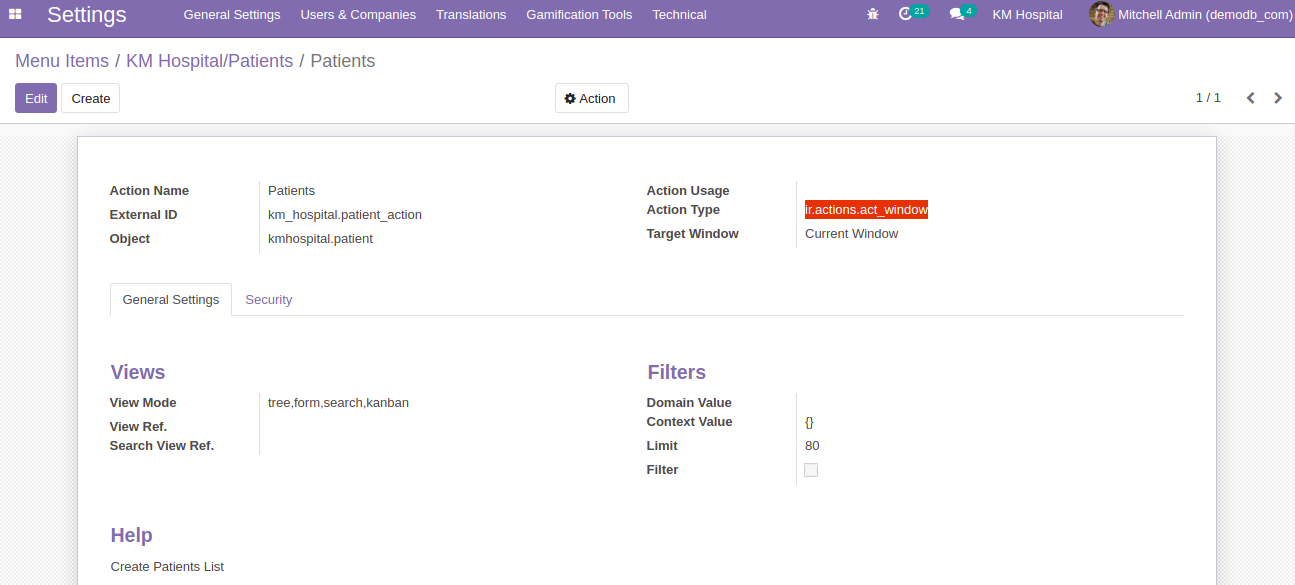
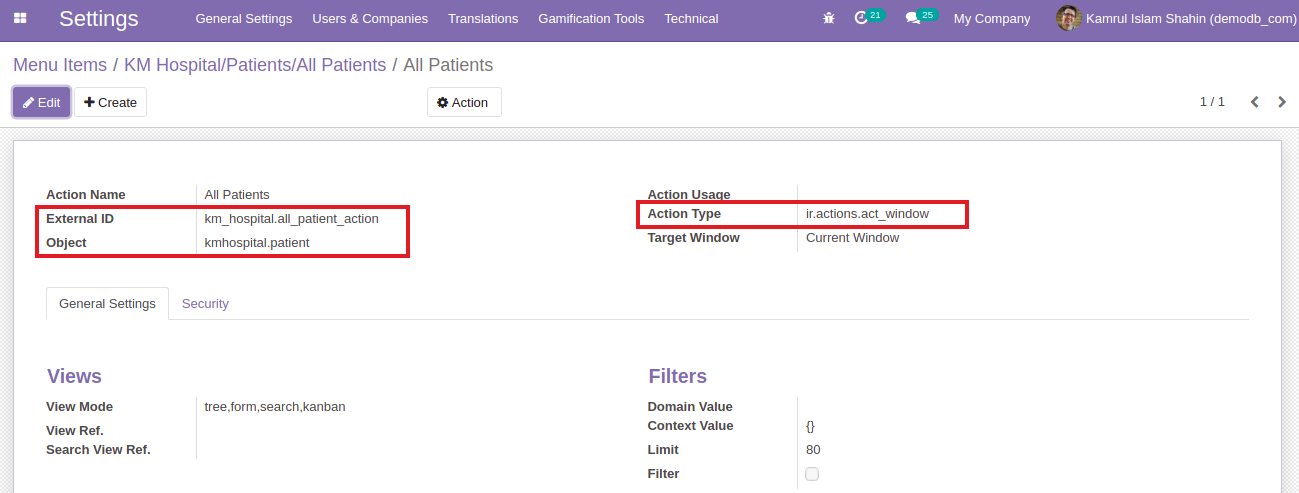
update patient actions and views

diff --git a/pages/4_actionsViews.md b/pages/4_actionsViews.md
@@ -19,18 +19,31 @@
 
   All the code will be placed inside the `odoo` tag.
 
-- Add below code to create root menu and a menu:
+- Add below code to create root menu, a menu and a sub-menu. In the root menu we can add `web_icon` as app icon and we have to create directory and file path `static > description > icon.png`.
 
   ```xml
   <!-- for root menu -->
   <menuitem id="hospital_root"
-      name="KM Hospital" />
+            name="KM Hospital"
+            web_icon="km_hospital,static/description/icon.png"/>
+
   <!-- for Patients menu -->
   <menuitem id="hospital_patient"
-      name="Patients"
-      parent="hospital_root"
-      action="patient_action" />
+            name="Patients"
+            parent="hospital_root"
+            groups="km_hospital.group_hospital_admin"
+            sequence='5'/>
+
+  <!-- for All Patients sub-menu -->
+  <menuitem id="hospital_patient_all"
+            name="All Patients"
+            parent="hospital_patient"
+            action="all_patient_action"
+            sequence='6'/>
   ```
+
+  - Try to add two more sub-menu for `Male Patients` and `Female patients`.
+  - [Check out the code for menus](https://github.com/KamrulSh/km_hospital/blob/e176c9741b0181b93bdf626216c0fdcdc11ea09a/views/patient_view.xml#L177-L203)
 
   Check the menuitem if it has been created or not. Go to `Settings > Technical > Menu items`
 
@@ -45,8 +58,8 @@
 - Add below code to create an action. This action will trigger when `Patients` menu is clicked. We have to set the action id `patient_action` in the menuitem. And `res_model` name should be the same as the model name.
 
   ```xml
-  <record id="patient_action" model="ir.actions.act_window">
-      <field name="name">Patients</field>
+  <record id="all_patient_action" model="ir.actions.act_window">
+      <field name="name">All Patients</field>
       <field name="type">ir.actions.act_window</field>
       <field name="res_model">kmhospital.patient</field>
       <field name="view_mode">tree,form,search,kanban</field>
@@ -58,9 +71,13 @@
   </record>
   ```
 
+  - Try to add two more window actions for `Male Patients` and `Female patients`.
+  - [Check out the code for actions](https://github.com/KamrulSh/km_hospital/blob/e176c9741b0181b93bdf626216c0fdcdc11ea09a/views/patient_view.xml#L107-L145)
+
   When we click the menuitem showed in the previous picture it will show the `Action` that we have created already.
 
-  ![menus3](../images/menus3.png)
+  ![menus3.1](../images/menus3.1.png)
+  ![menus3.2](../images/menus3.2.png)
 
   And it will show all the information related to that action.
 
@@ -69,6 +86,10 @@
   Restart the server and upgrade the module and it will show the module in the App menu. If we don't add the access rights that have done in [previous page](3_security.md) it will not show any menu and as well as our module.
 
   ![menus5](../images/menus5.png)
+
+- After creating the menu it will look something like below.
+
+  ![menus6](../images/menus6.png)
 
 ## Creating tree views
 
@@ -94,6 +115,8 @@
   It will show the list of records that have in the database. You can also create new patient information by using `Create` button and it will redirect to the form views.
 
   ![views1](../images/views1.png)
+
+  - [Check out the code for tree view](https://github.com/KamrulSh/km_hospital/blob/e176c9741b0181b93bdf626216c0fdcdc11ea09a/views/patient_view.xml#L4-L18)
 
 ## Creating form views
 
@@ -132,6 +155,8 @@
 
   ![views2](../images/views2.png)
 
+  - [Check out the code for form view](https://github.com/KamrulSh/km_hospital/blob/e176c9741b0181b93bdf626216c0fdcdc11ea09a/views/patient_view.xml#L20-L54)
+
 ## Creating search views
 
 - Add below code to create search view. It will lookup for patient information based on search criteria.
@@ -152,6 +177,8 @@
   ```
 
   ![views3](../images/views3.png)
+
+  - [Check out the code for search view](https://github.com/KamrulSh/km_hospital/blob/e176c9741b0181b93bdf626216c0fdcdc11ea09a/views/patient_view.xml#L56-L67)
 
 ## Creating kanban views
 
@@ -191,7 +218,7 @@
 
   ![views4](../images/views4.png)
 
-- [Lookup all the code for `patient_view.xml`](https://github.com/KamrulSh/km_hospital/blob/main/views/patient_view.xml)
+  - [Check out the code for kanban view](https://github.com/KamrulSh/km_hospital/blob/e176c9741b0181b93bdf626216c0fdcdc11ea09a/views/patient_view.xml#L69-L105)
 
 ### Task:
 
